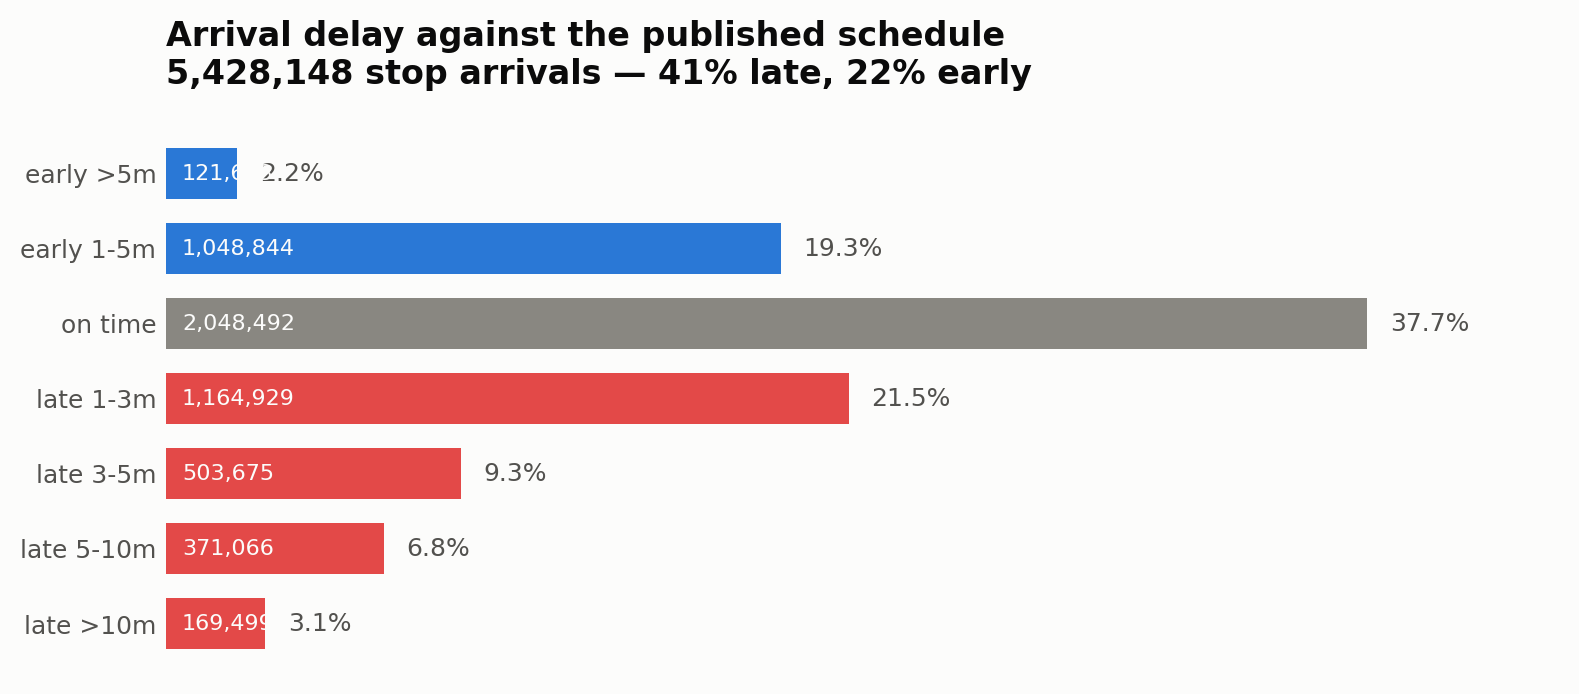
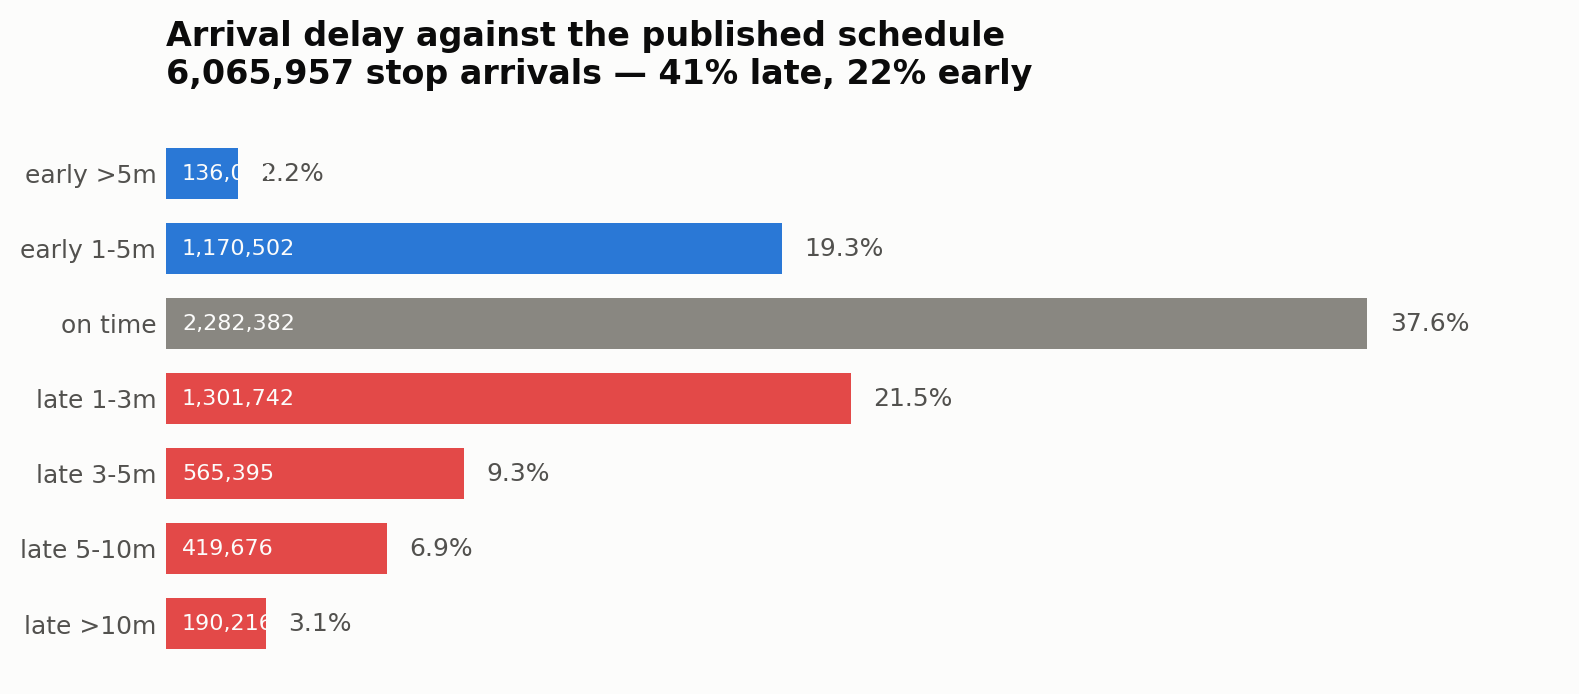
docs: refresh README figures and charts (32582555572)

diff --git a/README.md b/README.md
@@ -11,7 +11,7 @@ its own operations report.
 ## Status
 
 <!-- agent:status:begin -->
-**As of 2026-08-21, the data half is in production and the model half is not.**
+**As of 2026-08-22, the data half is in production and the model half is not.**
 
 | Stage | State |
 |---|---|
@@ -21,9 +21,9 @@ its own operations report.
 | Training, evaluation, model registry | provisioned in Terraform, never run |
 | Inference endpoint, prediction API | infrastructure live, no model behind it |
 
-Nothing is trained yet, so no model has been registered and no endpoint exists. Phase 5 splits train/validation/test by time, which needs 21 distinct service days; **10 are collected**, 11 to go.
+Nothing is trained yet, so no model has been registered and no endpoint exists. Phase 5 splits train/validation/test by time, which needs 21 distinct service days; **11 are collected**, 10 to go.
 
-Gross usage on 2026-08-20 was **$0.86**, a $0.91/day median over the last three days (≈$28/month at that rate).
+Gross usage on 2026-08-21 was **$0.86**, a $0.86/day median over the last three days (≈$27/month at that rate).
 <!-- agent:status:end -->
 
 The MAE figures below are **baselines computed from collected data**, not model
@@ -41,16 +41,16 @@ Collection is deliberately paced rather than rushed. Progress: `make data`.
 ### Baselines, measured
 
 <!-- agent:baselines:begin -->
-Over 5,428,148 labelled stop arrivals, 2026-08-11 to 2026-08-20. **Preliminary**: too few days to cover a weekend, rain, or an incident. Figures come from `sql/07_profile_queries.sql`.
+Over 6,065,957 labelled stop arrivals, 2026-08-11 to 2026-08-21. **Preliminary**: too few days to cover a weekend, rain, or an incident. Figures come from `sql/07_profile_queries.sql`.
 
 | Predictor | MAE (seconds) |
 |---|---|
-| Published schedule (predict zero delay) | **157.5** |
-| Persistence (bus stays as late as it currently is) | **138.3** |
+| Published schedule (predict zero delay) | **157.2** |
+| Persistence (bus stays as late as it currently is) | **137.9** |
 | Historical median for route/stop/hour | see `sql/07_profile_queries.sql` query 4 |
 | **XGBoost model** | pending, Phase 6 |
 
-Persistence beats the printed timetable by 12.2%. The registry gate is `mae_ratio_vs_persistence <= 0.92`, so a model must reach **≤ 127.2 seconds** to be registered at all.
+Persistence beats the printed timetable by 12.3%. The registry gate is `mae_ratio_vs_persistence <= 0.92`, so a model must reach **≤ 126.9 seconds** to be registered at all.
 <!-- agent:baselines:end -->
 
 That persistence number is the honest bar. "A bus four minutes late tends to stay
@@ -105,7 +105,7 @@ Decisions and their trade-offs are recorded in `docs/adr/`.
 ## What the data looks like
 
 <!-- agent:dataprofile:begin -->
-5,488,153 stop arrivals over 10 days of collection (2026-08-11 to 2026-08-20), label completeness 0.989.
+6,131,423 stop arrivals over 11 days of collection (2026-08-11 to 2026-08-21), label completeness 0.989.
 <!-- agent:dataprofile:end -->
 
 The charts below are regenerated daily from

diff --git a/reports/2026-08-22-docs-drift.md b/reports/2026-08-22-docs-drift.md
@@ -1,0 +1,32 @@
+# README drift check — 2026-08-22
+
+Claims that appear to contradict live facts. **Not auto-corrected**: a sentence is an argument, and rewriting one should be a decision.
+
+- **certain** — "Everything from the SageMaker Pipeline onward is provisioned and waiting for a training window."
+  SageMaker pipelines: 0 (no pipelines deployed)
+
+- **certain** — "The Kinesis shard is the only component that bills while idle, at ~$0.36/day."
+  Gross usage on 2026-08-21: $0.86 (actual daily cost)
+
+- **certain** — "Training, evaluation, the registry gate and the endpoint are written and provisioned but have never run, because a time-based split needs 21 service days and 2 are collected."
+  Service days collected: 11 of 21 (actual collected days)
+
+---
+
+Facts at 2026-08-22 15:44 UTC:
+
+```
+- Service days collected: 11 of 21
+- Stop arrivals in silver: 6,131,423
+- Label completeness: 0.989
+- MAE, published schedule: 157.2s
+- MAE, persistence: 137.9s
+- Persistence beats schedule by: 12.3%
+- SageMaker endpoints deployed: 0
+- Registered model packages: 0
+- SageMaker pipelines: 0
+- Ingestion EventBridge rule enabled: True
+- Last ETL execution: SUCCEEDED
+- Gross usage on 2026-08-21: $0.86
+- 3-day median usage: $0.86/day
+```
